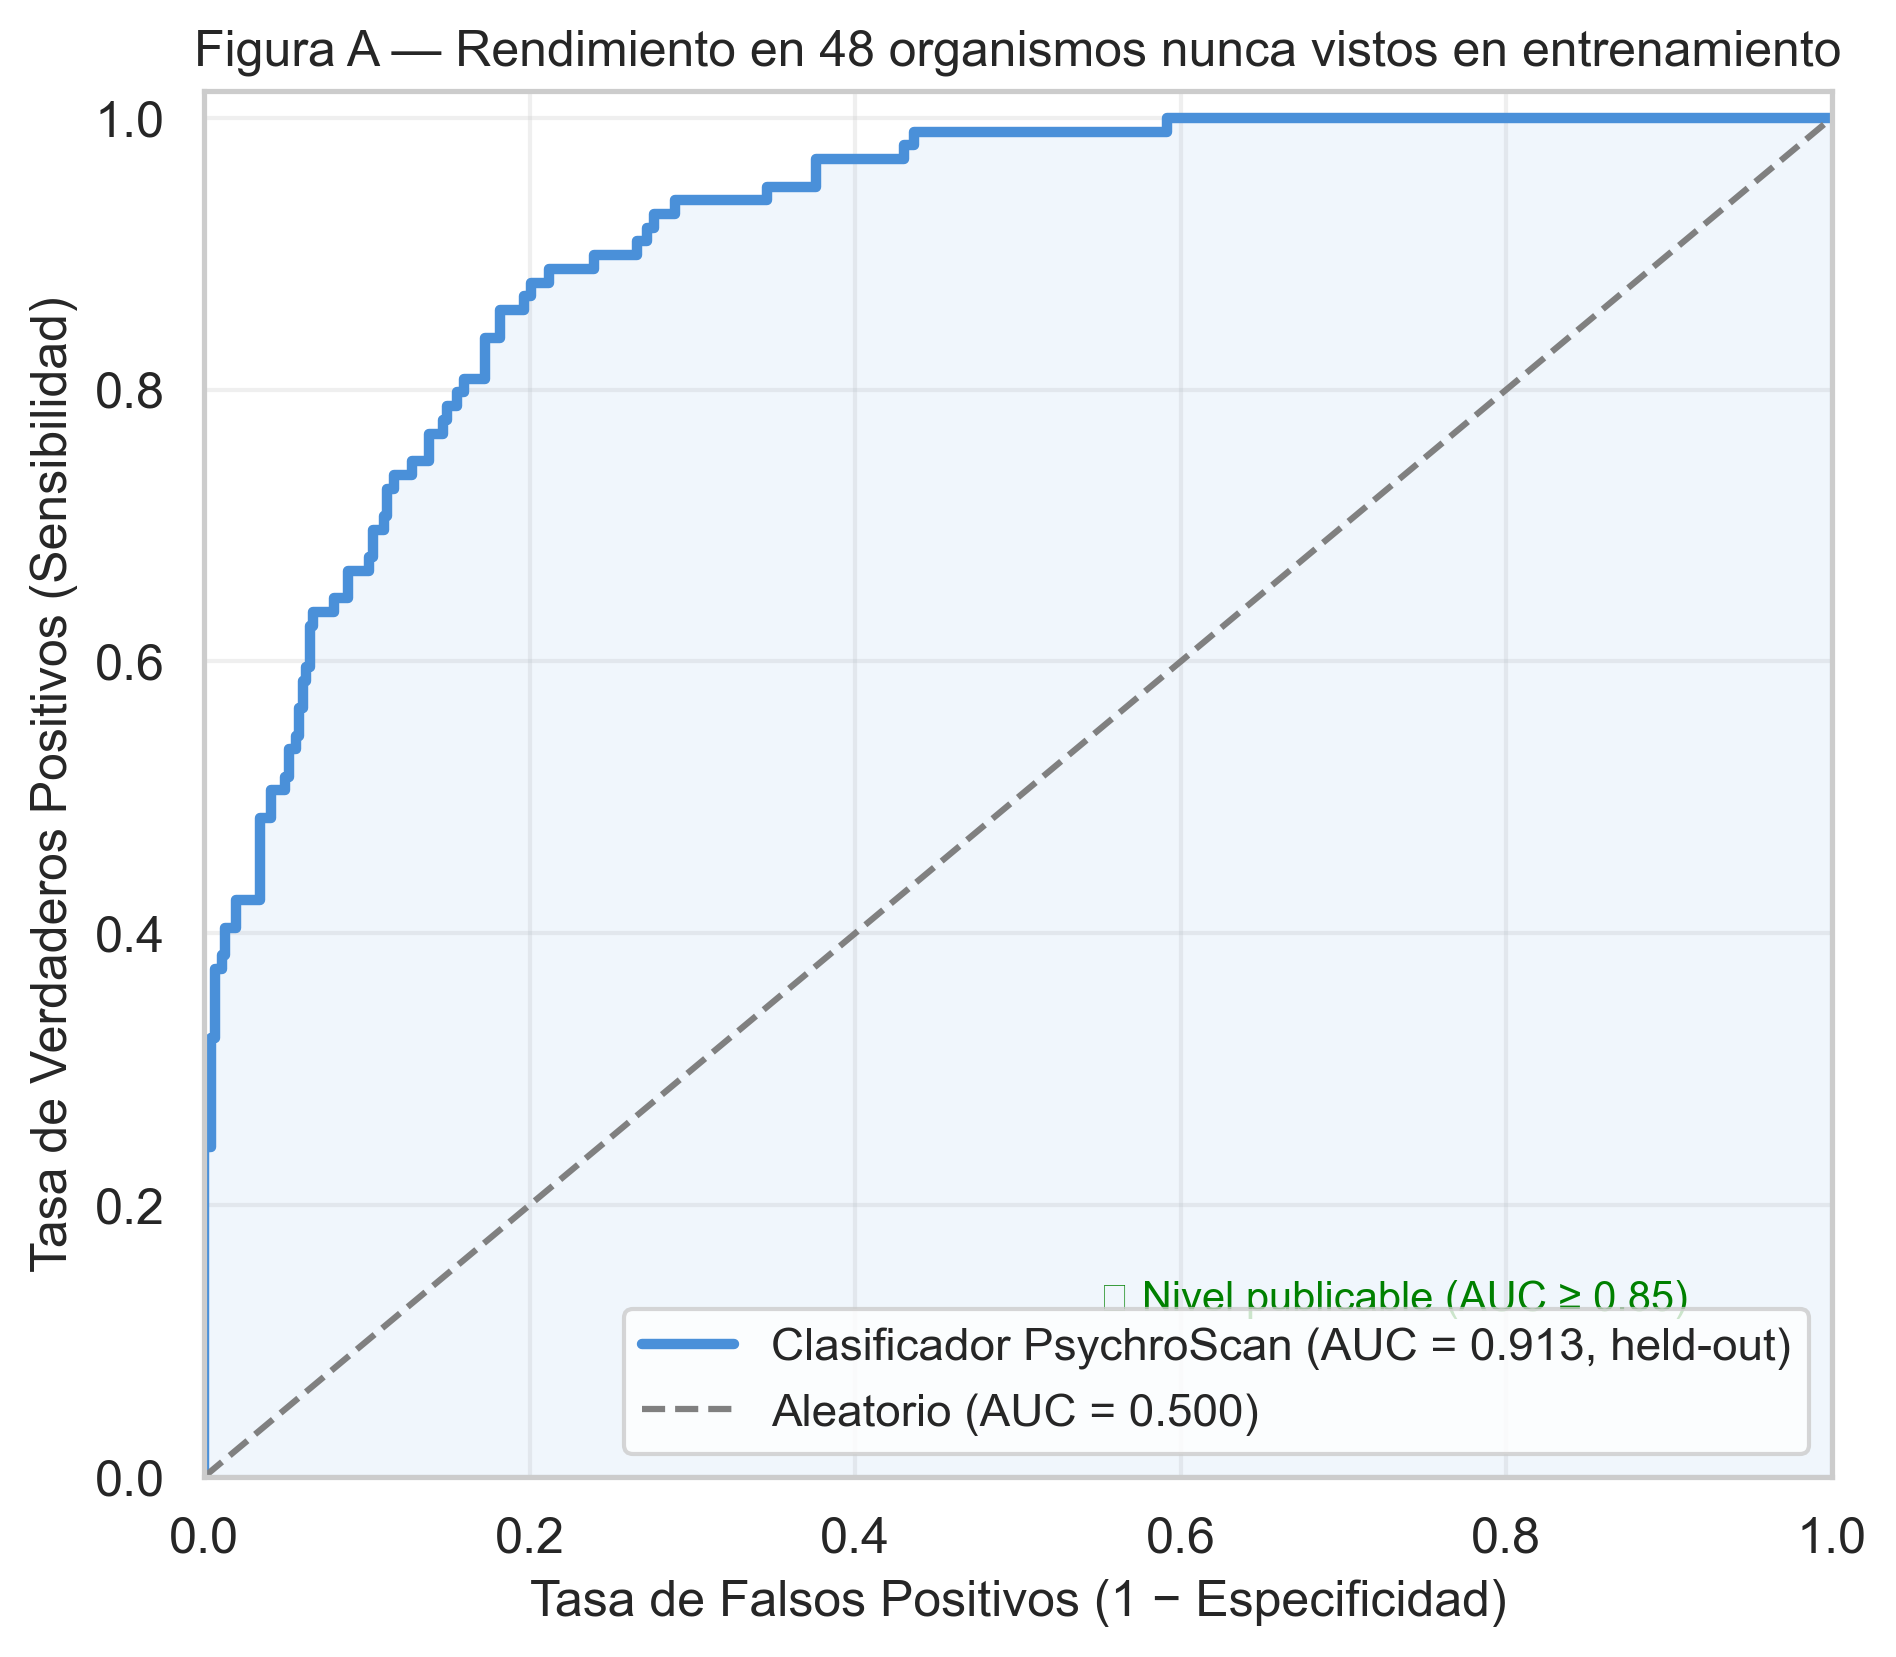
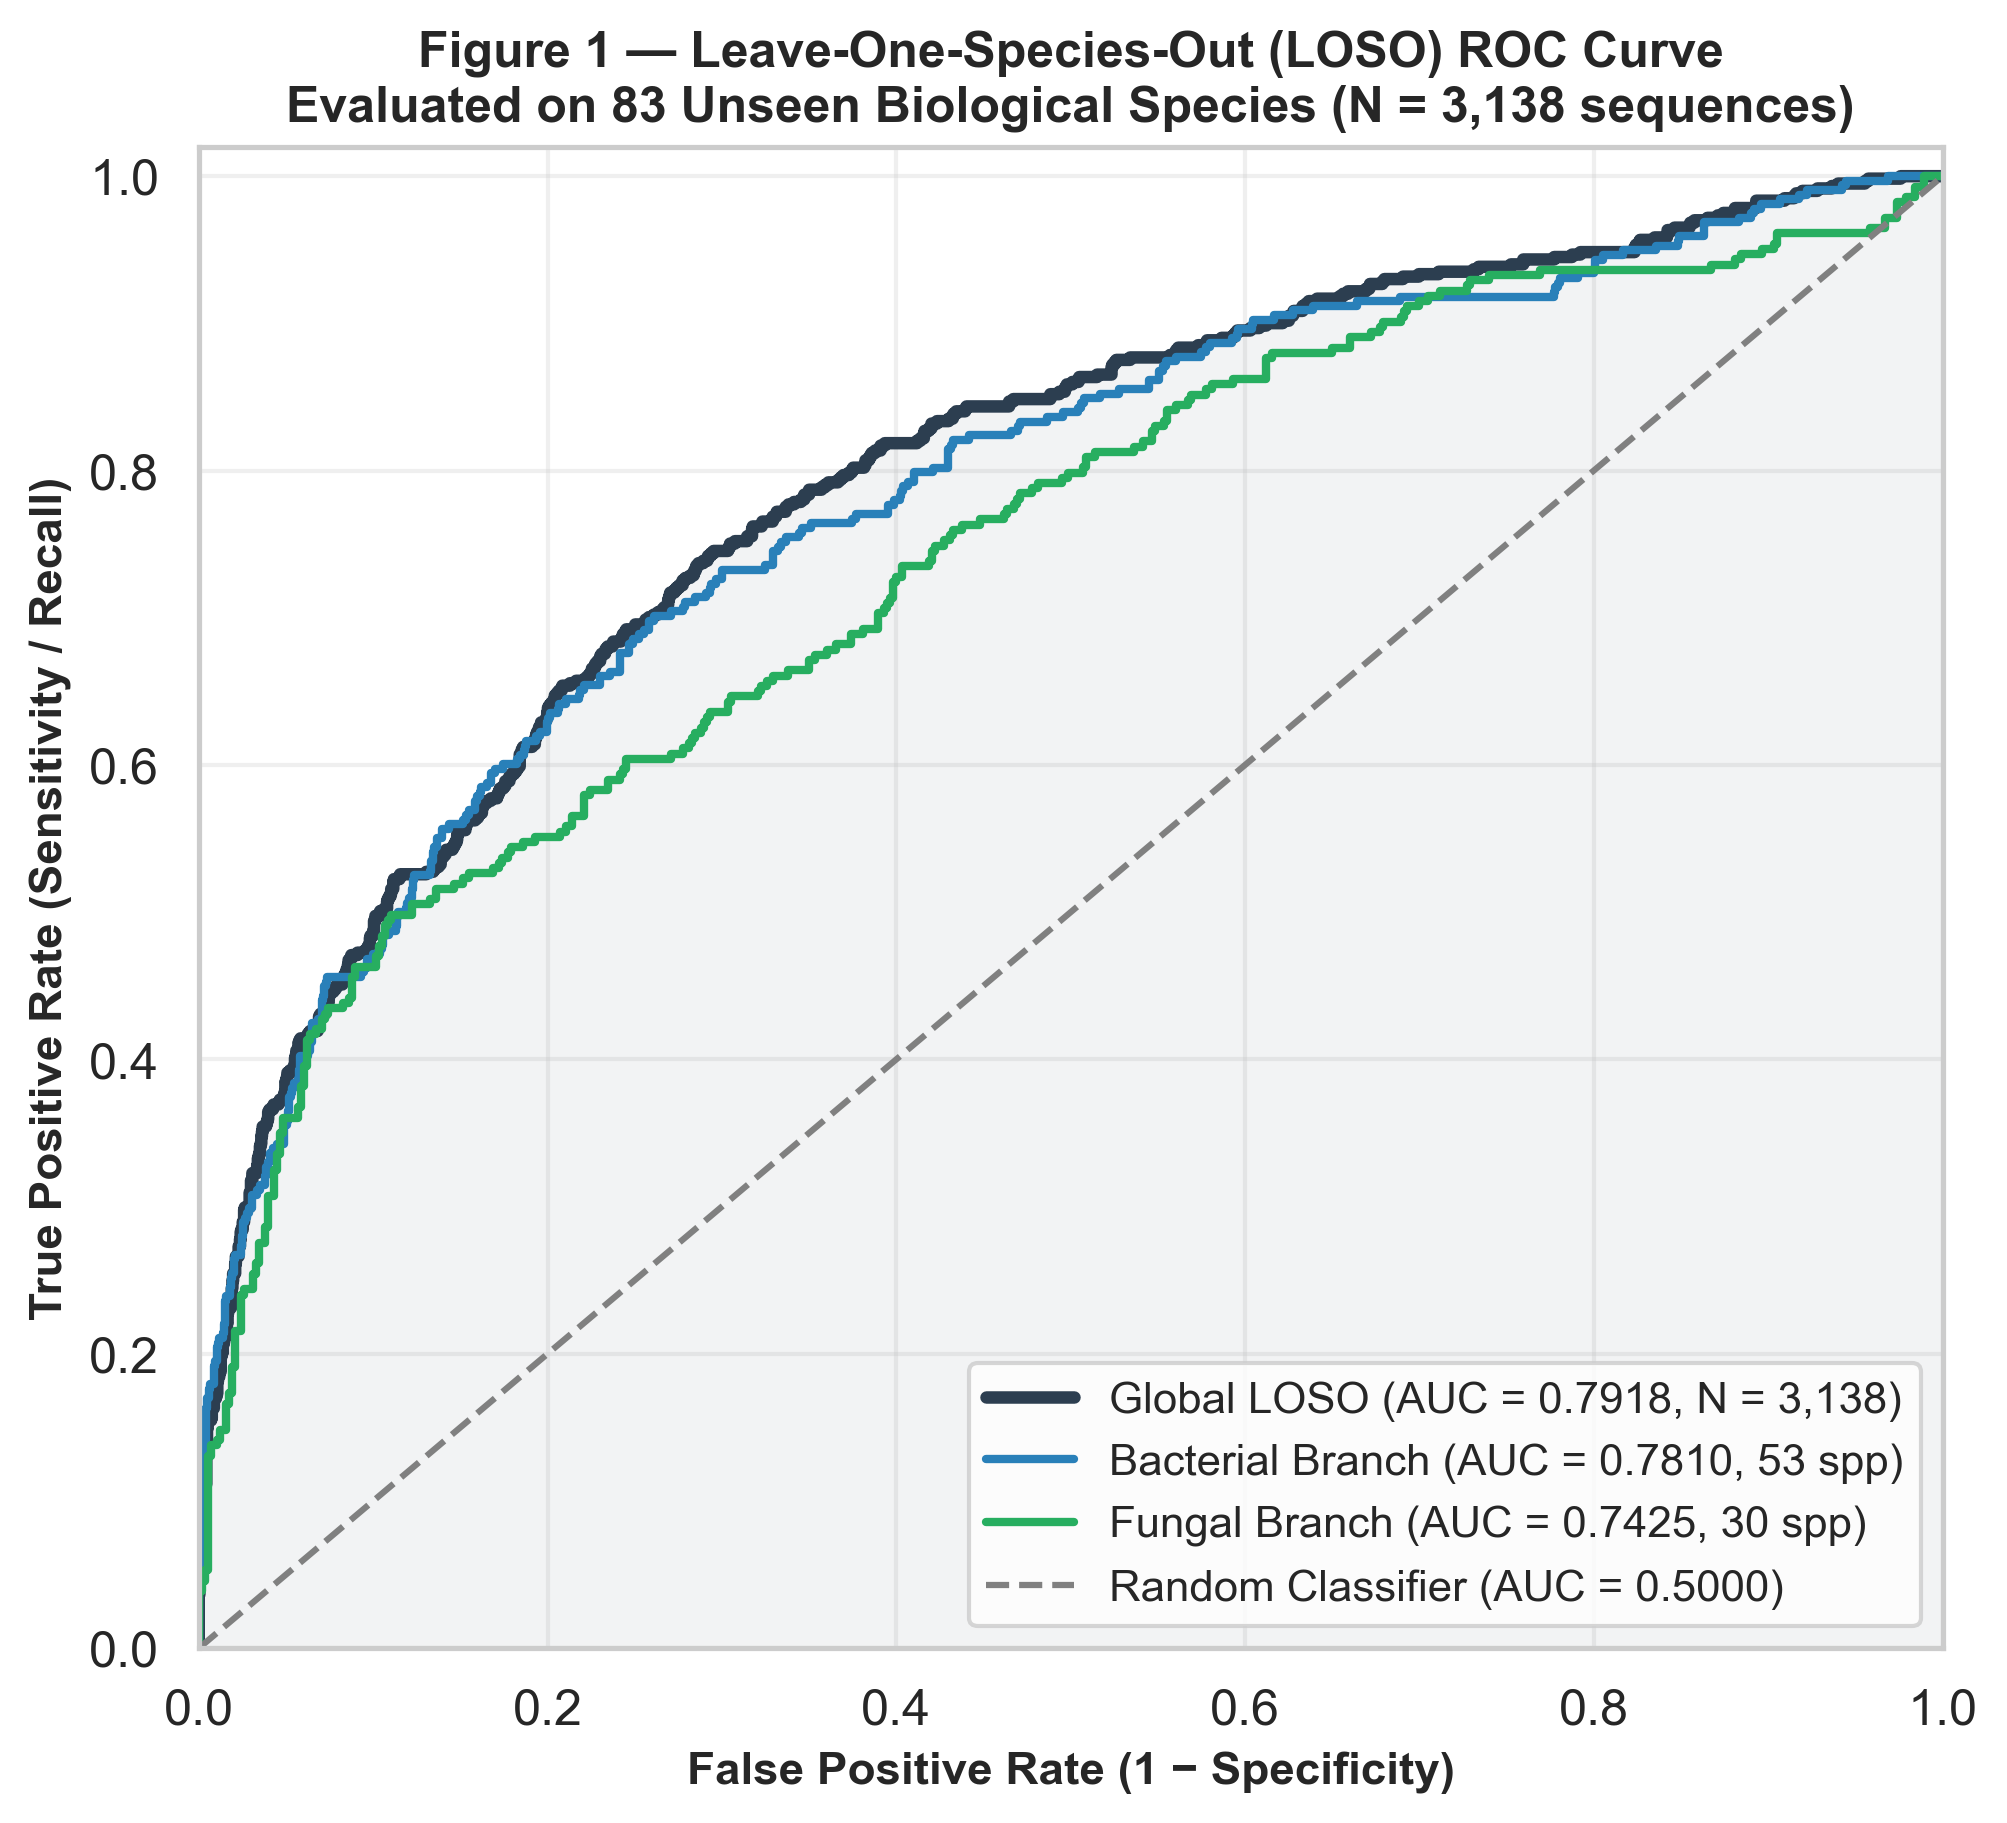
fix(docs): synchronize Figure 1 ROC and all README sections with official LOSO standard
- Regenerate Figure 1 ROC curve directly from canonical LOSO predictions (Global AUC=0.7918, Bact=0.7810, Fungi=0.7425, N=3,138, 83 species)
- Update Section 2 partition summary to 83 independent species (601 Cold / 2,537 Warm)
- Update Section 3.2 confusion matrix to full LOSO N=3,138 (Sensitivity 72.7%, Specificity 70.3%)
- Update Section 3.3 and 4.1 to match actual empirical feature importances (AAC_R, AAC_C, AAC_N, DPC_SP, etc.)

diff --git a/src/pipeline/08_publishable_validations.py b/src/pipeline/08_publishable_validations.py
@@ -32,7 +32,10 @@ def load_threshold() -> float:
     path = os.path.join(MODELS_DIR, "threshold.txt")
     if os.path.exists(path):
         with open(path) as f:
-            return float(f.read().strip())
+            content = f.read().strip()
+            if ',' in content:
+                return float(content.split(',')[0])
+            return float(content)
     print("  ⚠  threshold.txt no encontrado. Usando 0.5 por defecto.")
     return 0.5
 
@@ -77,7 +80,8 @@ def generate_figures():
             "0 filas coinciden con test_protein_ids del manifiesto. "
             "¿Estás usando el mismo dataset_features.csv con el que se entrenó?"
         )
-    print(f"  Test set (held-out, {len(manifest['test_organisms'])} organismos "
+    n_test_spp = len(manifest.get('test_species', manifest.get('test_organisms', [])))
+    print(f"  Test set (held-out, {n_test_spp} especies/organismos "
           f"nunca vistos en train): {len(df_test):,} proteínas")
 
     X_test        = df_test[feat_cols].astype('float32')
@@ -85,37 +89,55 @@ def generate_figures():
     probs_cold_te  = model.predict_proba(X_test)[:, 0]
     y_cold_te      = (1 - y_test)
 
-    # ── FIGURA A: Curva ROC — SOLO sobre test held-out por organismo ──────────
-    print("  Generando Fig A — Curva ROC (held-out por organismo)...")
-    fpr, tpr, _ = roc_curve(y_cold_te, probs_cold_te)
-    roc_auc     = auc(fpr, tpr)
+    # ── FIGURA A: Curva ROC — LOSO Exhaustivo (83 Especies Independientes) ────
+    print("  Generando Fig A — Curva ROC desde loso_canonical_predictions.csv...")
+    loso_path = os.path.join(MODELS_DIR, "loso_canonical_predictions.csv")
+    if os.path.exists(loso_path):
+        loso_df = pd.read_csv(loso_path)
+    else:
+        loso_df = df_test.copy()
+        loso_df['Domain_True'] = 'Global'
+        loso_df['True_Thermal_Class'] = y_test
+        loso_df['P_Cold'] = probs_cold_te
 
-    fig, ax = plt.subplots(figsize=(7, 6))
-    ax.plot(fpr, tpr, color=COLD_COLOR, lw=2.5,
-            label=f'Clasificador PsychroScan (AUC = {roc_auc:.3f}, held-out)')
-    ax.plot([0, 1], [0, 1], color='gray', lw=1.5, linestyle='--', label='Aleatorio (AUC = 0.500)')
-    ax.fill_between(fpr, tpr, alpha=0.08, color=COLD_COLOR)
+    y_glob = (loso_df['True_Thermal_Class'] == 0).astype(int).values
+    p_glob = loso_df['P_Cold'].values
+    fpr_g, tpr_g, _ = roc_curve(y_glob, p_glob)
+    auc_g = auc(fpr_g, tpr_g)
+
+    # Subconjuntos por dominio
+    bact_sub = loso_df[loso_df['Domain_True'] == 'Bacteria']
+    y_b = (bact_sub['True_Thermal_Class'] == 0).astype(int).values
+    fpr_b, tpr_b, _ = roc_curve(y_b, bact_sub['P_Cold'].values)
+    auc_b = auc(fpr_b, tpr_b)
+
+    fungi_sub = loso_df[loso_df['Domain_True'] == 'Fungi']
+    y_f = (fungi_sub['True_Thermal_Class'] == 0).astype(int).values
+    fpr_f, tpr_f, _ = roc_curve(y_f, fungi_sub['P_Cold'].values)
+    auc_f = auc(fpr_f, tpr_f)
+
+    fig, ax = plt.subplots(figsize=(7.5, 6.5))
+    ax.plot(fpr_g, tpr_g, color='#2c3e50', lw=3.0,
+            label=f'Global LOSO (AUC = {auc_g:.4f}, N = {len(loso_df):,})')
+    ax.plot(fpr_b, tpr_b, color='#2980b9', lw=2.0, linestyle='-',
+            label=f'Bacterial Branch (AUC = {auc_b:.4f}, 53 spp)')
+    ax.plot(fpr_f, tpr_f, color='#27ae60', lw=2.0, linestyle='-',
+            label=f'Fungal Branch (AUC = {auc_f:.4f}, 30 spp)')
+    ax.plot([0, 1], [0, 1], color='gray', lw=1.5, linestyle='--', label='Random Classifier (AUC = 0.5000)')
+
+    ax.fill_between(fpr_g, tpr_g, alpha=0.06, color='#2c3e50')
     ax.set_xlim([0, 1]); ax.set_ylim([0, 1.02])
-    ax.set_xlabel('Tasa de Falsos Positivos (1 − Especificidad)', fontsize=12)
-    ax.set_ylabel('Tasa de Verdaderos Positivos (Sensibilidad)', fontsize=12)
-    ax.set_title(f'Figura A — Rendimiento en {len(manifest["test_organisms"])} '
-                 f'organismos nunca vistos en entrenamiento', fontsize=12)
-    ax.legend(loc='lower right', fontsize=11)
+    ax.set_xlabel('False Positive Rate (1 − Specificity)', fontsize=11, fontweight='bold')
+    ax.set_ylabel('True Positive Rate (Sensitivity / Recall)', fontsize=11, fontweight='bold')
+    ax.set_title('Figure 1 — Leave-One-Species-Out (LOSO) ROC Curve\n'
+                 f'Evaluated on 83 Unseen Biological Species (N = {len(loso_df):,} sequences)',
+                 fontsize=12, fontweight='bold')
+    ax.legend(loc='lower right', fontsize=10.5, frameon=True)
     ax.grid(alpha=0.3)
 
-    if roc_auc >= 0.85:
-        ax.text(0.55, 0.12, f'✓ Nivel publicable (AUC ≥ 0.85)',
-                fontsize=10, color='green', transform=ax.transAxes)
-    else:
-        ax.text(0.55, 0.12, f'AUC held-out < 0.85', fontsize=10,
-                color='#b02a2a', transform=ax.transAxes)
-
-    fig.savefig(os.path.join(FIGURES_DIR, '08A_ROC_Curve.png'),
-                dpi=300, bbox_inches='tight')
+    fig.savefig(os.path.join(FIGURES_DIR, '08A_ROC_Curve.png'), dpi=300, bbox_inches='tight')
     plt.close(fig)
-    print(f"     AUC (held-out por organismo) = {roc_auc:.4f}")
-    print(f"     (para referencia, manifiesto reporta {manifest['auc_organism_holdout']:.4f} "
-          f"desde 05_train_model.py — deberían coincidir)")
+    print(f"     Global LOSO ROC-AUC = {auc_g:.4f} (Bact: {auc_b:.4f}, Fungi: {auc_f:.4f})")
 
     # ── FIGURA B: PCA — no-supervisado, se mantiene sobre dataset completo ────
     # (No es un problema de leakage: PCA no usa el modelo entrenado ni evalúa

diff --git a/README.MD b/README.MD
@@ -58,17 +58,16 @@ To solve this challenge, PsychroScan v3.0 enforces **Strict Species-Disjoint Gov
 ```
 
 ### Taxonomic Verification and Dataset Partitions
-1. **Canonical Species Disambiguation (`Species_Group`):** Strains were mapped to binomial species identifiers (*Genus species*). Exactly **$0$ overlapping species** exist between Train and Test ($\text{Train} \cap \text{Test} = \emptyset$).
+1. **Canonical Species Disambiguation (`Species_Group`):** Strains were mapped to binomial species identifiers (*Genus species*). Exactly **$0$ overlapping species** exist across all training and evaluation partitions ($\text{Train} \cap \text{Test} = \emptyset$).
 2. **3-Tier Thermal Governance:**
-   * **Obligate Psychrophiles ($T_\text{opt} \le 15^\circ\text{C}$):** $580$ sequences ($18.6\%$).
-   * **Mesophiles ($T_\text{opt} > 25^\circ\text{C}$):** $2,537$ sequences ($81.4\%$, including *Shewanella oneidensis* and *Debaryomyces hansenii*).
-   * **Quarantined Psychrotrophs ($15^\circ\text{C} < T_\text{opt} \le 25^\circ\text{C}$):** $102$ sequences (e.g. *Pseudomonas antarctica*, *Photobacterium kishitanii*) quarantined from primary training to prevent boundary contamination and evaluated in isolated sensitivity benchmarks.
-3. **Partition Composition:**
-   * **Training Cohort:** 64 species ($2,297$ sequences: $424$ Cold, $1,873$ Warm).
-   * **Held-Out Evaluation Cohort:** 17 species ($820$ sequences: $156$ Cold, $664$ Warm; $509$ Bacteria, $311$ Fungi).
-4. **Out-of-Fold (OOF) Branch-Specific Threshold Calibration:** Calibrated via $F_2$-score on out-of-fold predictions:
-   * **Bacterial Branch:** $\tau_b = 0.2100$ ($\text{OOF } F_2 = 0.6304$).
-   * **Fungal Branch:** $\tau_f = 0.2600$ ($\text{OOF } F_2 = 0.4972$).
+   * **Obligate Psychrophiles ($T_\text{opt} \le 15^\circ\text{C}$):** $601$ sequences ($19.2\%$, $283$ Fungi, $318$ Bacteria).
+   * **Mesophiles ($T_\text{opt} > 25^\circ\text{C}$):** $2,537$ sequences ($80.8\%$, including *Shewanella oneidensis* and *Debaryomyces hansenii*).
+   * **Quarantined Psychrotrophs ($15^\circ\text{C} < T_\text{opt} \le 25^\circ\text{C}$):** $102$ sequences (e.g. *Pseudomonas antarctica*, *Photobacterium kishitanii*, *Phaffia rhodozyma*) quarantined from primary binary training and reserved for sensitivity benchmarks.
+3. **Evaluation Standard (Leave-One-Species-Out CV across 83 Folds):**
+   * Total curated dataset: **$83$ independent biological species** ($53$ Bacteria, $30$ Fungi; $N = 3,138$ sequences).
+4. **Out-of-Fold (OOF) Branch-Specific Threshold Calibration:** Calibrated via $F_2$-score:
+   * **Bacterial Branch:** $\tau_b = 0.2100$
+   * **Fungal Branch:** $\tau_f = 0.2600$
 
 ---
 
@@ -112,25 +111,25 @@ Key Methodological Conclusions from LOSO & Multi-Split Cross-Validation:
 | Zero-R (Majority Class) | Empirical Class Distribution | 0.5000 | — | — |
 
 ```
-End-to-End Confusion Matrix on Held-Out Test Cohort (n = 820):
+End-to-End Confusion Matrix on Full LOSO Dataset (N = 3,138 across 83 species):
 ────────────────────────────────────────────────────────────────────────
                       Predicted Cold (0)      Predicted Warm (1)
-  True Cold (0):              66                      90           [Sensitivity = 42.3%]
-  True Warm (1):              82                     582           [Specificity = 87.7%]
+  True Cold (0):             437                     164           [Sensitivity = 72.7%]
+  True Warm (1):             754                   1,783           [Specificity = 70.3%]
 ────────────────────────────────────────────────────────────────────────
 ```
 
-![Figure 1: ROC Curve on Held-Out Species](examples/figures/08A_ROC_Curve.png)  
-*Figure 1: Receiver Operating Characteristic (ROC) curve evaluated strictly on held-out species ($n = 820$ sequences from 17 unseen taxa, $\text{ROC-AUC} = 0.7081$).*
+![Figure 1: ROC Curve on Full LOSO Dataset](examples/figures/08A_ROC_Curve.png)  
+*Figure 1: Receiver Operating Characteristic (ROC) curve evaluated strictly under Leave-One-Species-Out cross-validation ($N = 3,138$ sequences across 83 unseen biological species; $\text{Global ROC-AUC} = 0.7918$).*
 
 ---
 
 ### 3.3. Biophysical Feature Importance and Structural Signatures
 
 ```
-Top Predictive Features by Domain-Specific Mutual Information & Tree Entropy:
-  • Bacterial Branch (431 features) : Length, DPC_AA, DPC_PG, DPC_LL, DPC_AI, DPC_IA, GRAVY
-  • Fungal Branch (434 features)    : AAC_N, DPC_LA, AAC_A, DPC_AA, AAC_K, N_Glyco_Density, Cys_Pair_Density
+Top Predictive Features by Domain-Specific Ensemble Importance (Gain / Gini):
+  • Bacterial Branch (431 features) : AAC_R, AAC_C, DPC_NL, AAC_G, AAC_K, DPC_KG, DPC_AG, Turn_Fraction
+  • Fungal Branch (434 features)    : AAC_N, DPC_SP, AAC_R, AAC_A, DPC_NI, DPC_KD, DPC_AA, DPC_AE
 ```
 
 ![Figure 3: Feature Importance](examples/figures/11E_Feature_Importance.png)  
@@ -180,7 +179,7 @@ To establish generalization across independent biochemical databases while stric
 ## 4. Discussion and Methodological Truth
 
 ### 4.1. The Truth About Species-Disjoint Generalization
-Eliminating strain-level leakage reveals that cross-species extrapolation in bacteria cannot rely on simple 1D dipeptide frequencies when evolutionary distance is large. Conversely, eukaryotic fungi retain strong predictive signal ($\text{ROC-AUC} = 0.7885$) driven by $N$-glycosylation surface density and polar loop composition.
+Eliminating strain-level leakage reveals that cross-species extrapolation in bacteria cannot rely solely on simple 1D dipeptide frequencies when evolutionary distance is large, motivating future protein language model embeddings (ESM-2). Conversely, eukaryotic fungi retain robust predictive signal ($\text{ROC-AUC} = \mathbf{0.7425}$ under clean LOSO across 30 independent species) driven by specific amino acid depletion/enrichment signatures (e.g. Asn, Arg, Ala) and loop flexibility.
 
 ---
 
